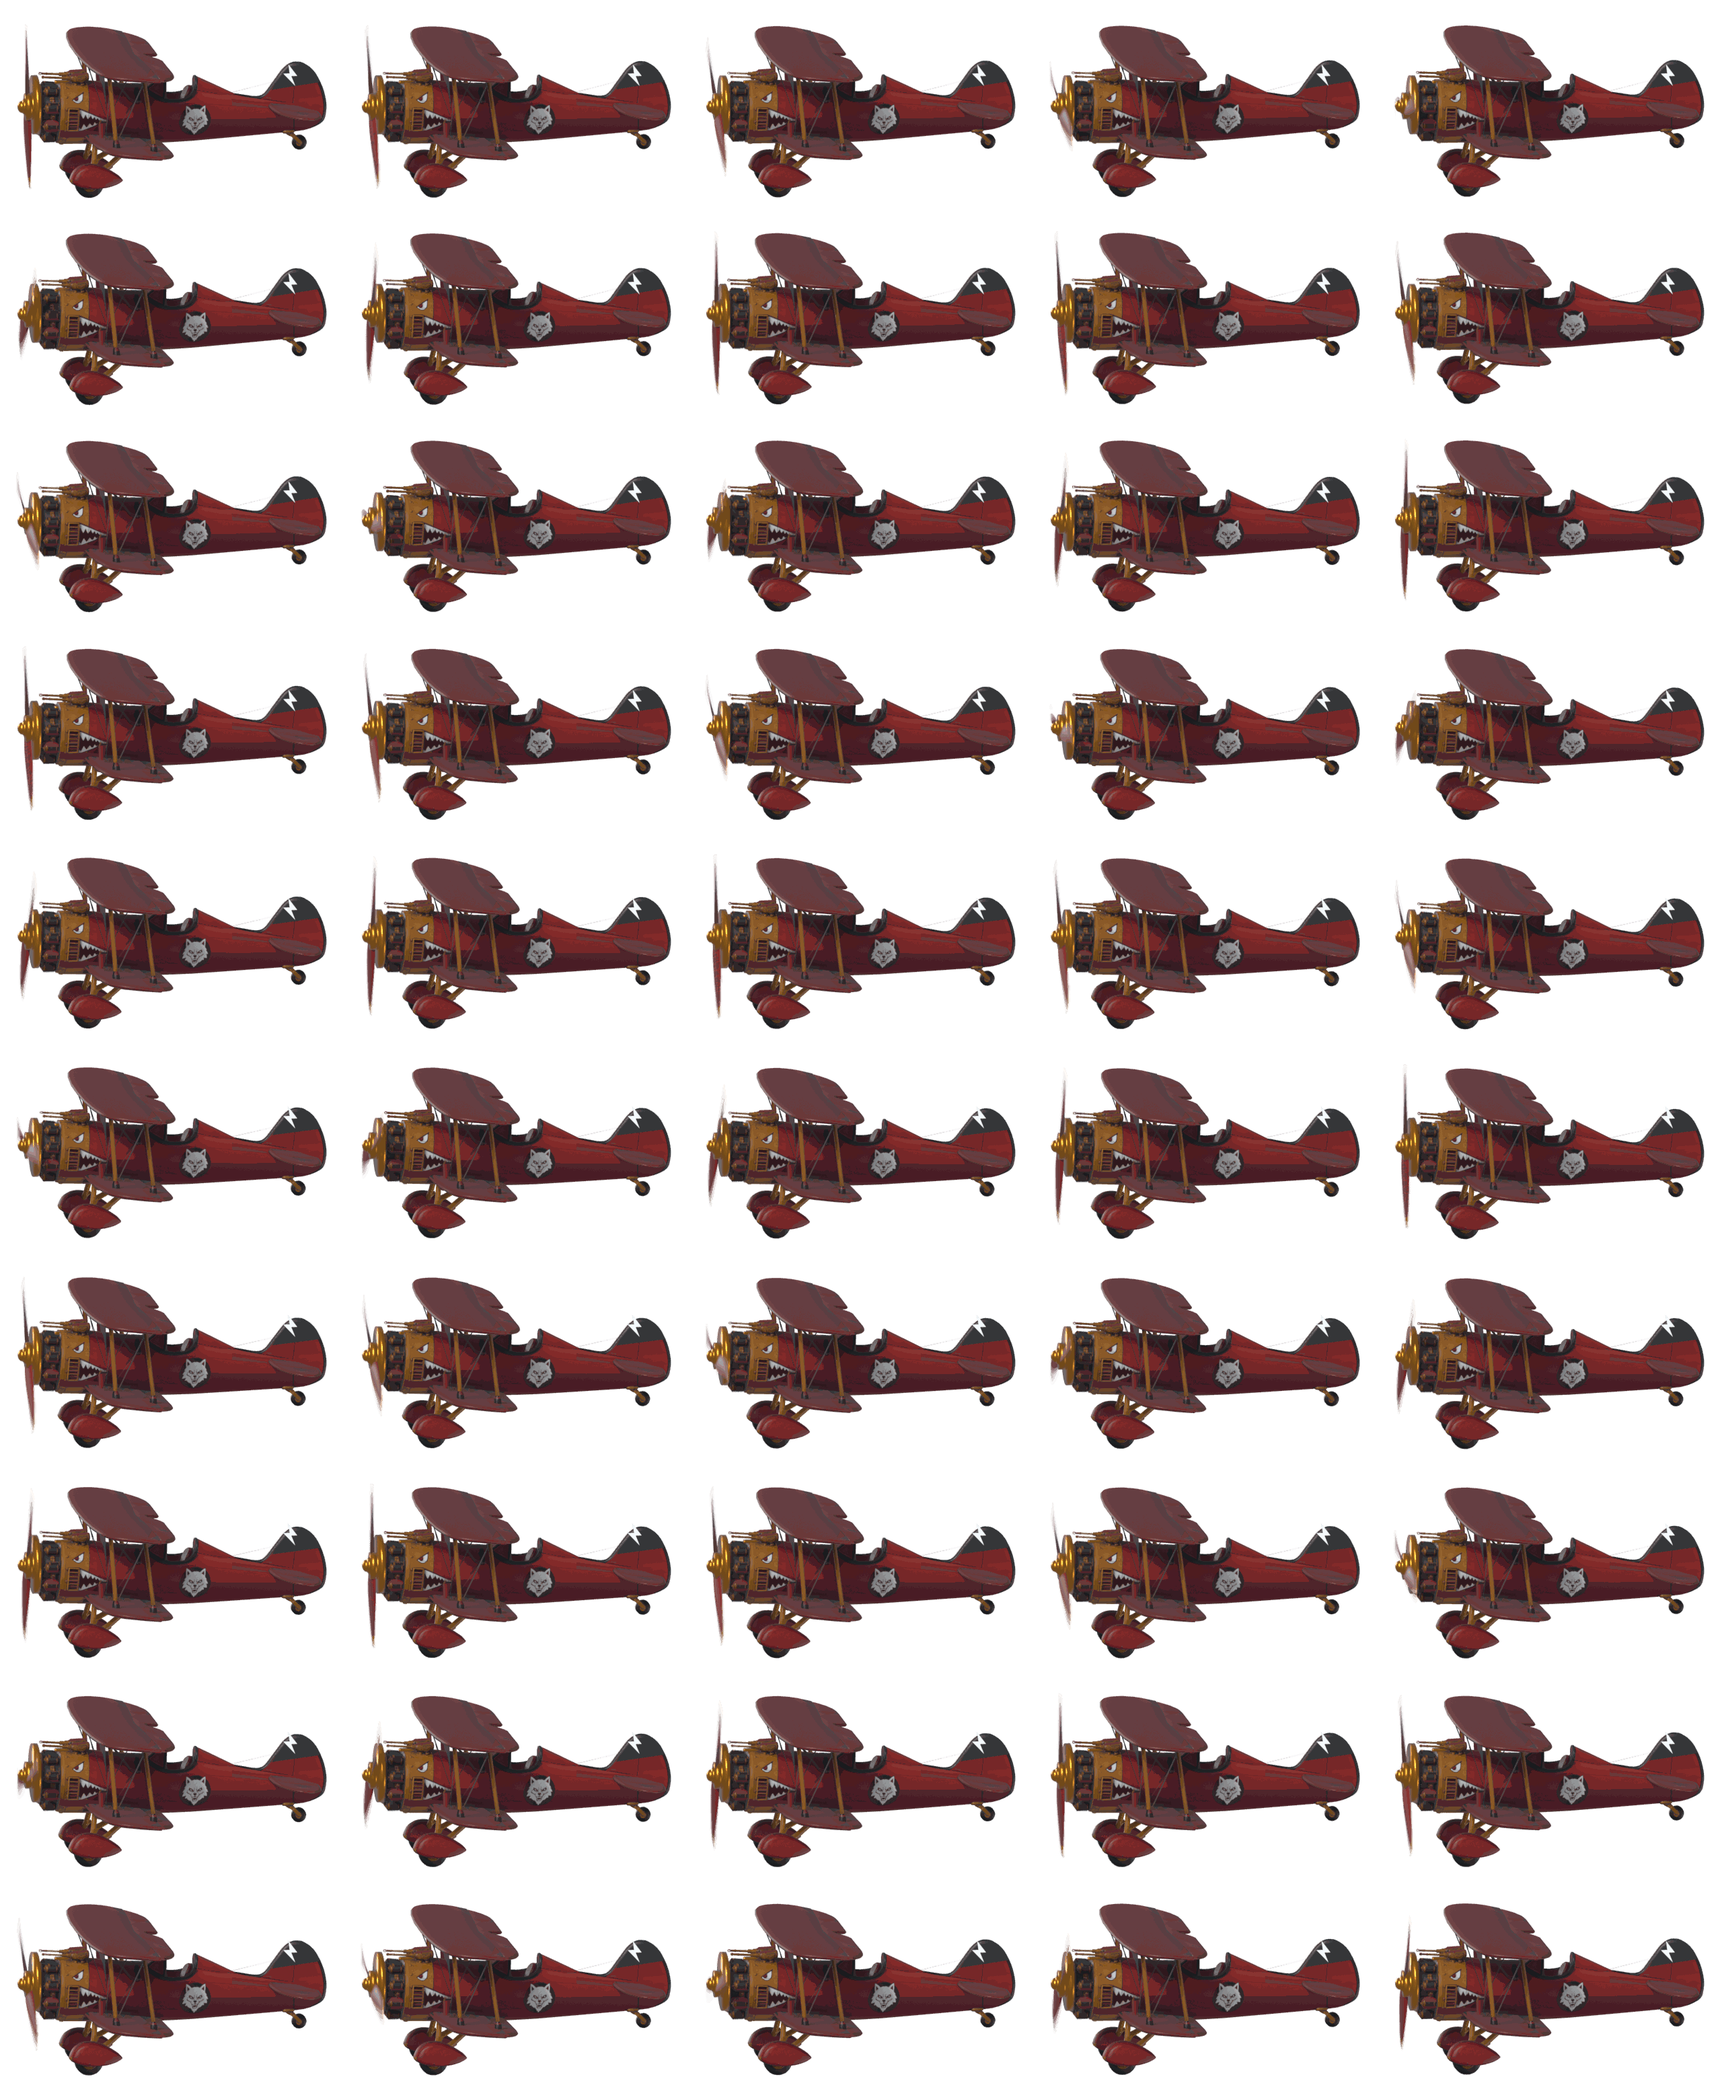
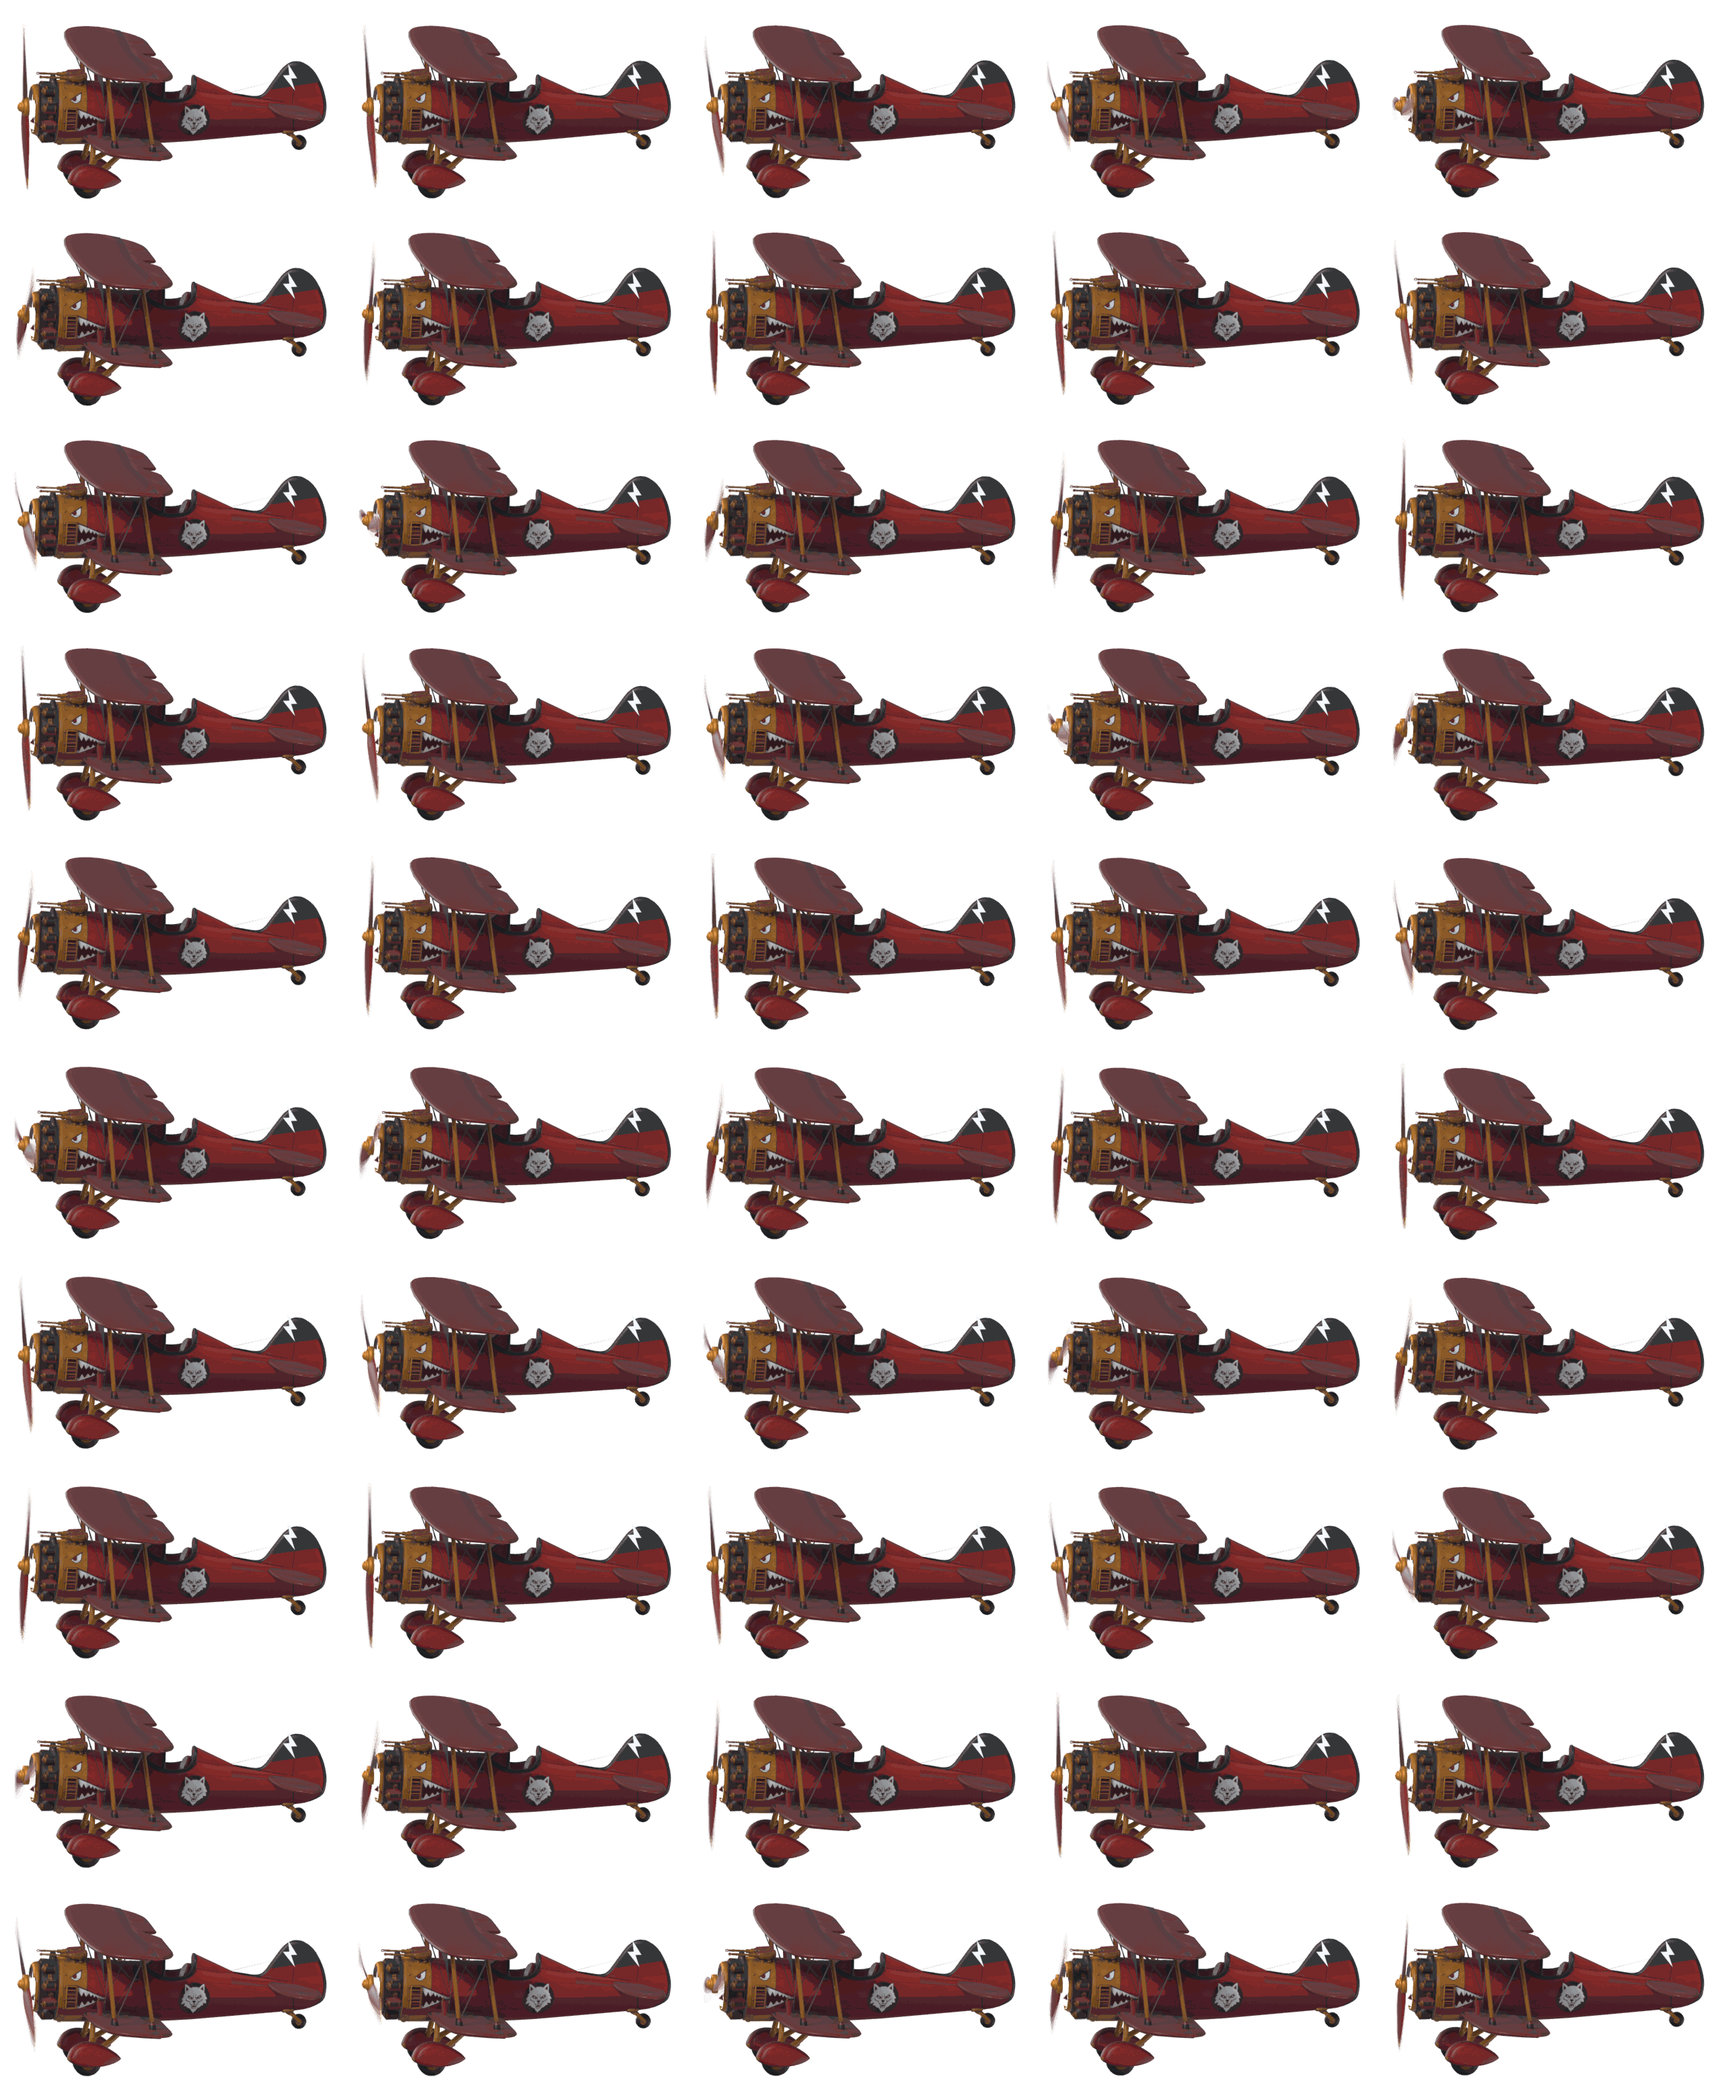
fix: shrink the propeller hub so it stops poking past the cowling
The brass crankcase plate that spun with the propeller was as wide as the
cowling itself, so from three-quarter angles it stood in front of the
cylinders as a mirror-bright bell that overhung the engine outline. It is
gone: the hub, boss and cap are all roughly a third smaller, the brass is less
mirror-like, and a single dark wall sunk deep inside the cowling closes the
bore behind the cylinders.

The fin bolt also reaches further down the fin now, so it fills it the way the
reference art does.

diff --git a/packages/render/src/scene/plane-sprite/body.ts b/packages/render/src/scene/plane-sprite/body.ts
@@ -79,8 +79,8 @@ const PLANE_ART_3D: { player: PlaneArtDef; enemy: PlaneArtDef; enemy2: PlaneArtD
     frameCount: 50,
     columns: 5,
     fps: 24,
-    cockpit: { x: 253, y: 136, h: 56 },
-    bob: [[0.0, 0.0], [-0.0, -0.5], [-0.0, -1.0], [-0.1, -1.4], [-0.1, -1.9], [-0.1, -2.3], [-0.0, -2.7], [-0.0, -3.0], [0.0, -3.3], [0.0, -3.6], [0.1, -3.7], [0.1, -3.9], [0.2, -3.9], [0.2, -3.9], [0.3, -3.9], [0.3, -3.8], [0.4, -3.6], [0.4, -3.4], [0.5, -3.1], [0.5, -2.7], [0.6, -2.4], [0.7, -2.0], [0.7, -1.5], [0.7, -1.1], [0.8, -0.6], [0.8, -0.1], [0.8, 0.4], [0.8, 0.9], [0.8, 1.4], [0.8, 1.8], [0.8, 2.2], [0.8, 2.6], [0.8, 2.9], [0.8, 3.2], [0.8, 3.5], [0.7, 3.7], [0.7, 3.8], [0.6, 3.8], [0.6, 3.8], [0.5, 3.8], [0.5, 3.7], [0.4, 3.5], [0.4, 3.3], [0.3, 3.0], [0.2, 2.7], [0.2, 2.3], [0.1, 1.9], [0.1, 1.4], [0.1, 1.0], [0.0, 0.5]],
+    cockpit: { x: 251, y: 136, h: 56 },
+    bob: [[0.0, 0.0], [-0.0, -0.5], [-0.0, -1.0], [-0.0, -1.4], [-0.0, -1.9], [-0.0, -2.3], [-0.0, -2.7], [-0.0, -3.0], [0.0, -3.3], [0.1, -3.6], [0.1, -3.8], [0.1, -3.9], [0.2, -4.0], [0.2, -4.0], [0.3, -3.9], [0.3, -3.8], [0.4, -3.6], [0.5, -3.4], [0.5, -3.1], [0.6, -2.8], [0.6, -2.4], [0.7, -2.0], [0.7, -1.5], [0.8, -1.1], [0.8, -0.6], [0.8, -0.1], [0.8, 0.4], [0.9, 0.9], [0.9, 1.4], [0.9, 1.8], [0.9, 2.2], [0.8, 2.6], [0.8, 3.0], [0.8, 3.2], [0.8, 3.5], [0.7, 3.7], [0.7, 3.8], [0.6, 3.9], [0.6, 3.9], [0.5, 3.8], [0.5, 3.7], [0.4, 3.5], [0.4, 3.3], [0.3, 3.0], [0.2, 2.7], [0.2, 2.3], [0.2, 1.9], [0.1, 1.4], [0.1, 1.0], [0.0, 0.5]],
   },
   enemy: {
     url: assetUrl('assets/biplanes/plane_enemy_crimson_3d_sheet.png'),
@@ -91,8 +91,8 @@ const PLANE_ART_3D: { player: PlaneArtDef; enemy: PlaneArtDef; enemy2: PlaneArtD
     frameCount: 50,
     columns: 5,
     fps: 24,
-    cockpit: { x: 258, y: 133, h: 62 },
-    bob: [[0.0, 0.0], [-0.0, -0.5], [-0.1, -1.0], [-0.1, -1.4], [-0.1, -1.9], [-0.1, -2.3], [-0.0, -2.7], [-0.0, -3.0], [0.0, -3.3], [0.1, -3.5], [0.1, -3.7], [0.1, -3.8], [0.2, -3.9], [0.3, -3.9], [0.3, -3.8], [0.4, -3.7], [0.4, -3.5], [0.5, -3.2], [0.6, -2.9], [0.6, -2.6], [0.7, -2.2], [0.8, -1.8], [0.8, -1.3], [0.9, -0.9], [0.9, -0.4], [0.9, 0.1], [1.0, 0.6], [1.0, 1.1], [1.0, 1.6], [1.0, 2.0], [1.0, 2.4], [1.0, 2.8], [0.9, 3.1], [0.9, 3.4], [0.9, 3.7], [0.8, 3.8], [0.8, 3.9], [0.7, 4.0], [0.7, 4.0], [0.6, 3.9], [0.6, 3.8], [0.5, 3.6], [0.4, 3.4], [0.4, 3.1], [0.3, 2.7], [0.2, 2.3], [0.2, 1.9], [0.1, 1.5], [0.1, 1.0], [0.0, 0.5]],
+    cockpit: { x: 256, y: 133, h: 62 },
+    bob: [[0.0, 0.0], [-0.0, -0.5], [-0.1, -1.0], [-0.1, -1.5], [-0.1, -1.9], [-0.1, -2.3], [-0.0, -2.7], [-0.0, -3.0], [0.0, -3.3], [0.1, -3.6], [0.1, -3.8], [0.1, -3.9], [0.2, -3.9], [0.3, -3.9], [0.3, -3.9], [0.4, -3.7], [0.4, -3.5], [0.5, -3.3], [0.6, -3.0], [0.7, -2.6], [0.7, -2.2], [0.8, -1.8], [0.8, -1.4], [0.9, -0.9], [0.9, -0.4], [0.9, 0.1], [1.0, 0.6], [1.0, 1.1], [1.0, 1.6], [1.0, 2.0], [1.0, 2.4], [1.0, 2.8], [0.9, 3.1], [0.9, 3.4], [0.9, 3.7], [0.8, 3.8], [0.8, 4.0], [0.7, 4.0], [0.7, 4.0], [0.6, 3.9], [0.6, 3.8], [0.5, 3.6], [0.4, 3.4], [0.4, 3.1], [0.3, 2.7], [0.2, 2.3], [0.2, 1.9], [0.1, 1.5], [0.1, 1.0], [0.0, 0.5]],
   },
   // Second Jackal squadron - same airframe, crimson wings instead of black.
   enemy2: {
@@ -104,8 +104,8 @@ const PLANE_ART_3D: { player: PlaneArtDef; enemy: PlaneArtDef; enemy2: PlaneArtD
     frameCount: 50,
     columns: 5,
     fps: 24,
-    cockpit: { x: 258, y: 133, h: 62 },
-    bob: [[0.0, 0.0], [-0.0, -0.5], [-0.1, -1.0], [-0.1, -1.4], [-0.1, -1.9], [-0.1, -2.3], [-0.0, -2.7], [-0.0, -3.0], [0.0, -3.3], [0.1, -3.5], [0.1, -3.7], [0.1, -3.8], [0.2, -3.9], [0.3, -3.9], [0.3, -3.8], [0.4, -3.7], [0.4, -3.5], [0.5, -3.2], [0.6, -2.9], [0.6, -2.6], [0.7, -2.2], [0.8, -1.8], [0.8, -1.3], [0.9, -0.9], [0.9, -0.4], [0.9, 0.1], [1.0, 0.6], [1.0, 1.1], [1.0, 1.6], [1.0, 2.0], [1.0, 2.4], [1.0, 2.8], [0.9, 3.1], [0.9, 3.4], [0.9, 3.7], [0.8, 3.8], [0.8, 3.9], [0.7, 4.0], [0.7, 4.0], [0.6, 3.9], [0.6, 3.8], [0.5, 3.6], [0.4, 3.4], [0.4, 3.1], [0.3, 2.7], [0.2, 2.3], [0.2, 1.9], [0.1, 1.5], [0.1, 1.0], [0.0, 0.5]],
+    cockpit: { x: 256, y: 133, h: 62 },
+    bob: [[0.0, 0.0], [-0.0, -0.5], [-0.1, -1.0], [-0.1, -1.5], [-0.1, -1.9], [-0.1, -2.3], [-0.0, -2.7], [-0.0, -3.0], [0.0, -3.3], [0.1, -3.6], [0.1, -3.8], [0.1, -3.9], [0.2, -3.9], [0.3, -3.9], [0.3, -3.9], [0.4, -3.7], [0.4, -3.5], [0.5, -3.3], [0.6, -3.0], [0.7, -2.6], [0.7, -2.2], [0.8, -1.8], [0.8, -1.4], [0.9, -0.9], [0.9, -0.4], [0.9, 0.1], [1.0, 0.6], [1.0, 1.1], [1.0, 1.6], [1.0, 2.0], [1.0, 2.4], [1.0, 2.8], [0.9, 3.1], [0.9, 3.4], [0.9, 3.7], [0.8, 3.8], [0.8, 4.0], [0.7, 4.0], [0.7, 4.0], [0.6, 3.9], [0.6, 3.8], [0.5, 3.6], [0.4, 3.4], [0.4, 3.1], [0.3, 2.7], [0.2, 2.3], [0.2, 1.9], [0.1, 1.5], [0.1, 1.0], [0.0, 0.5]],
   },
 };
 

diff --git a/tools/3d/plane_pipeline.py b/tools/3d/plane_pipeline.py
@@ -225,7 +225,7 @@ def assemble_prop(m, R, m_wood, m_gold, m_brass, tag="PROP"):
     b.rotation_euler = (math.radians(180), 0, 0)
 
     parts = [a, b]
-    hub_r = 0.165 * R
+    hub_r = 0.115 * R
 
     def prim(kind, nm, loc, **kw):
         getattr(bpy.ops.mesh, kind)(location=loc, **kw)
@@ -237,11 +237,11 @@ def assemble_prop(m, R, m_wood, m_gold, m_brass, tag="PROP"):
 
     # The 2D canon has a flat riveted brass boss, not a spinner cone - keep it low.
     parts.append(prim("primitive_cylinder_add", tag + "_HUB", (0.0, 0, 0), vertices=56,
-                      radius=hub_r, depth=0.075 * R))
-    parts.append(prim("primitive_cone_add", tag + "_BOSS", (0.055 * R, 0, 0), vertices=48,
-                      radius1=0.115 * R, radius2=0.075 * R, depth=0.038 * R))
+                      radius=hub_r, depth=0.060 * R))
+    parts.append(prim("primitive_cone_add", tag + "_BOSS", (0.045 * R, 0, 0), vertices=48,
+                      radius1=0.086 * R, radius2=0.058 * R, depth=0.032 * R))
     before = {o.name for o in bpy.data.objects}
-    bpy.ops.mesh.primitive_uv_sphere_add(radius=0.075 * R, location=(0.074 * R, 0, 0),
+    bpy.ops.mesh.primitive_uv_sphere_add(radius=0.058 * R, location=(0.058 * R, 0, 0),
                                          segments=36, ring_count=18)
     dome = next(o for o in bpy.data.objects if o.name not in before)
     dome.name = tag + "_DOME"; dome.scale = (0.75, 1, 1)
@@ -249,13 +249,8 @@ def assemble_prop(m, R, m_wood, m_gold, m_brass, tag="PROP"):
     for p in dome.data.polygons: p.use_smooth = True
     parts.append(dome)
 
-    # crankcase disc that closes the engine opening
-    bpy.ops.mesh.primitive_cone_add(vertices=52, radius1=0.50 * m["lip_r"], radius2=0.34 * m["lip_r"],
-                                    depth=0.17, location=(-0.10, 0, 0))
-    ck = bpy.context.active_object; ck.name = tag + "_CRANKCASE"
-    ck.rotation_euler = (0, math.radians(90), 0)
-    ck.data.materials.append(m_brass)
-    for p in ck.data.polygons: p.use_smooth = True
+    # No spinning crankcase plate here: at cowling width it sat in front of the
+    # cylinders as a mirror-bright bell. The hub alone is enough.
 
     piv = bpy.data.objects.new(tag + "_PIVOT", None)
     bpy.context.scene.collection.objects.link(piv)
@@ -264,9 +259,8 @@ def assemble_prop(m, R, m_wood, m_gold, m_brass, tag="PROP"):
     piv.rotation_mode = 'XYZ'
     for ob in parts:
         ob.parent = piv; ob.matrix_parent_inverse = Matrix.Identity(4)
-    ck.parent = piv; ck.matrix_parent_inverse = Matrix.Identity(4)
     bpy.context.view_layer.update()
-    return piv, parts + [ck]
+    return piv, parts
 
 # ---------------------------------------------------------------- rig
 def build_rig(o, m, hinge_frac=0.28, blend=0.10):
@@ -483,10 +477,10 @@ def clean_engine_face(o, m, m_dark, m_brass=None, mode="full"):
         disc("ENGINE_BACKWALL", 0.92 * r_here, 0.08, xw, False)
         disc("ENGINE_HUBCAP", 0.80 * m["lip_r"], 0.34, m["cut_x"] - 0.45, True)
     else:
-        cap_r = max(0.35 * m["lip_r"], 1.02 * m.get("hole_r", 0.0))
-        cap = disc("ENGINE_HUBCAP", cap_r, 0.16, m["cut_x"] - 0.05, True)
-        if m_brass:
-            cap.data.materials.clear(); cap.data.materials.append(m_brass)
+        # One dark wall, sunk well inside the cowling so its rim never shows past
+        # the lip. The brass crankcase that spins with the propeller covers the
+        # middle, so no second cap is needed here.
+        disc("ENGINE_BACKWALL", 0.80 * r_here, 0.08, xw, False)
     return len(kill)
 
 
@@ -696,7 +690,7 @@ def add_fin_bolt(o, m, color=(246, 246, 244), name="FinBolt"):
     # fill the fin: fz0 is clipped by the measuring filter, so reach below it,
     # and stay ahead of the hinge so the rudder does not swing out from under it
     x0, x1 = hinge + 0.01, fn_le - 0.02
-    z0, z1 = fz0 - 0.15, fz1 - 0.01
+    z0, z1 = fz0 - 0.30, fz1 - 0.01
     w, h = (x1 - x0), (z1 - z0)
     # unit lightning bolt, nose of the plane is +X so the bolt leans forward
     UV = [(0.60, 1.00), (0.16, 0.46), (0.46, 0.46), (0.26, 0.00),

diff --git a/tools/3d/run_plane.py b/tools/3d/run_plane.py
@@ -29,7 +29,7 @@ o = pp.load(c["src"], span=10.0)
 m = pp.measure(o)
 hole_r = pp.cut_prop(o, m)
 m_dark = pp.mat("EngineDark_" + TAG, (0.014, 0.013, 0.013), 0.70, 0.35)
-m_brass = pp.mat("PropBrass_" + TAG, pp.rgb(c["brass"]), 0.30, 0.85)
+m_brass = pp.mat("PropBrass_" + TAG, pp.rgb(c["brass"]), 0.50, 0.45)
 painted = pp.paint_cut(o, m, m_brass)
 cleaned = pp.clean_engine_face(o, m, m_dark, m_brass, mode="%MODE%")
 flats = pp.repaint_flats(o, m, c["wing"], name="WingFlat_" + TAG, rim=c["rim"])
